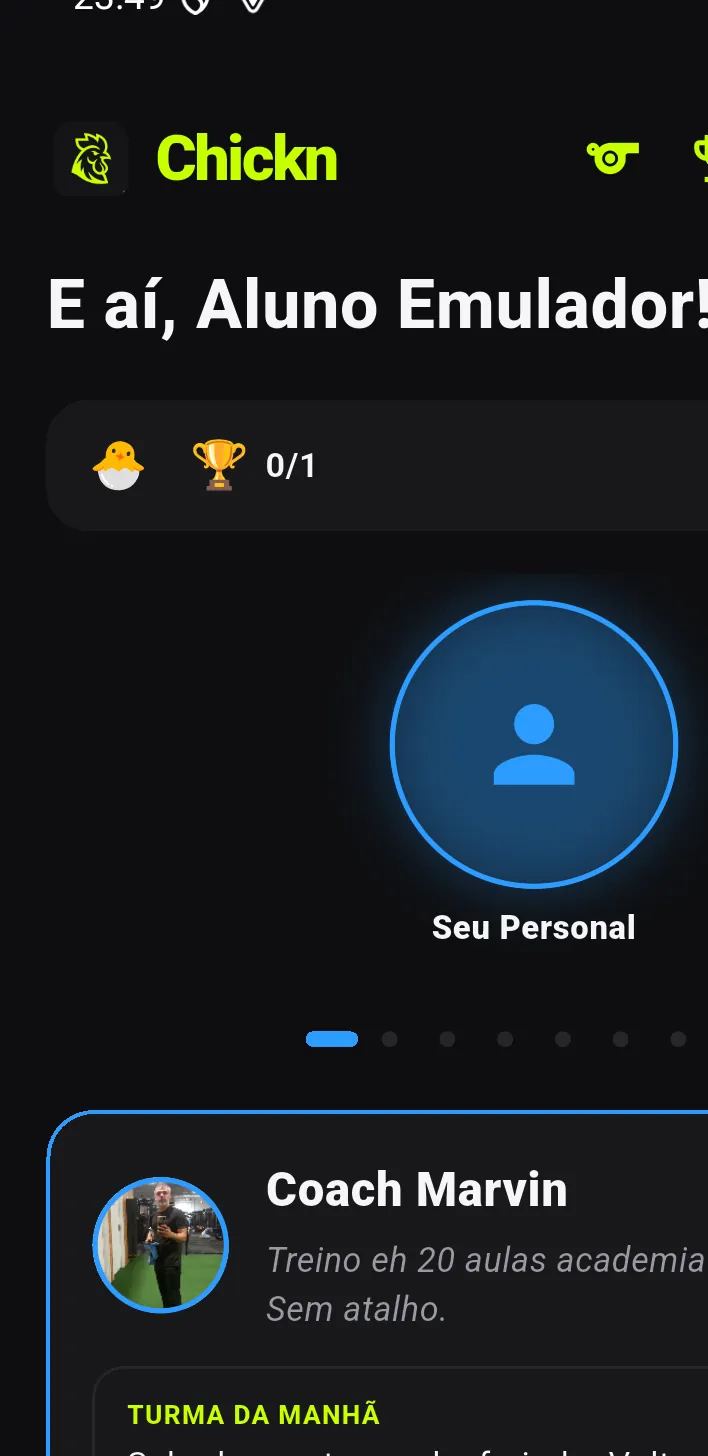
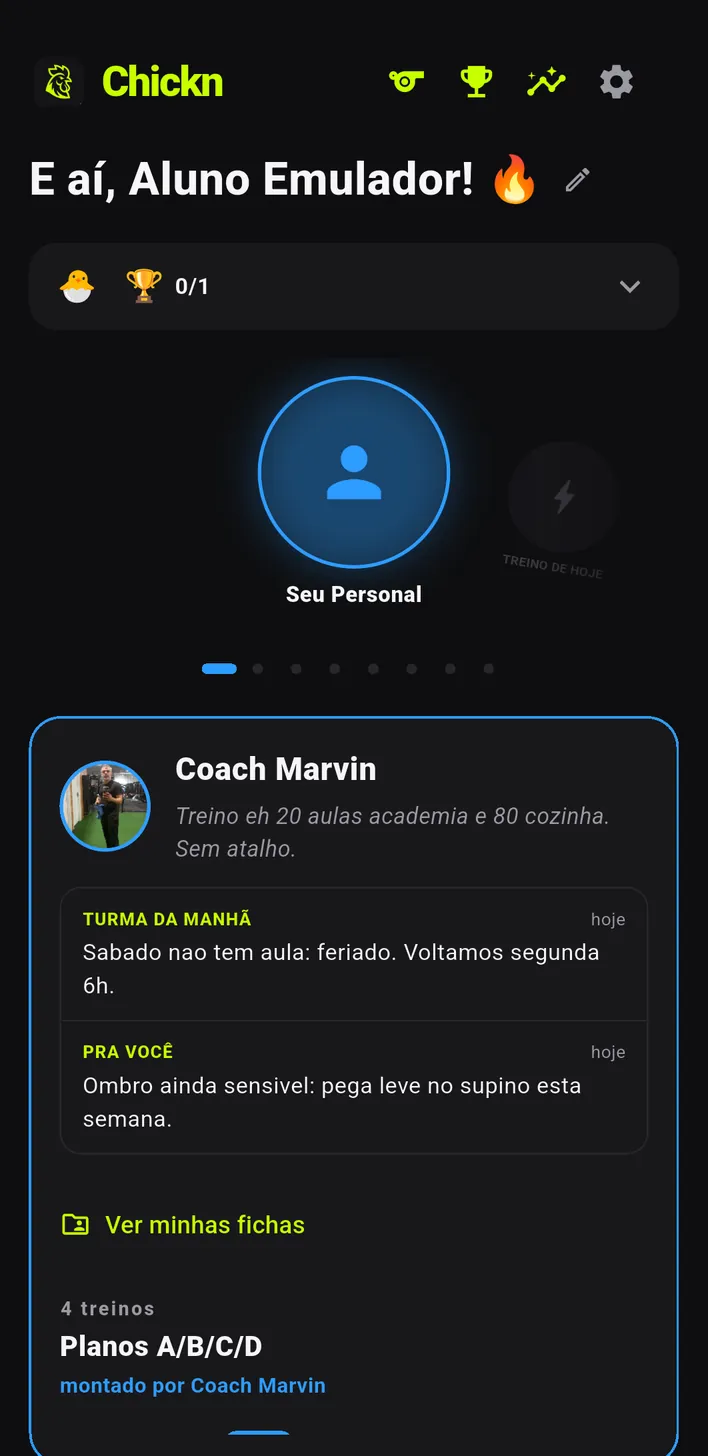
site: o passo "Acompanhar" mostrava o cartão do aluno cortado
O print terminava no meio do cartão do personal: a legenda prometia "o treino
de hoje já pronto pra começar" e a imagem parava em "montado por Coach Marvin".
O cartão não cabe numa tela de celular, então virou duas — topo (marca, frase e
os dois recados) e continuação (Ver minhas fichas + o programa com o treino de
hoje marcado). A legenda de cada uma diz só o que a imagem mostra.

De quebra os recados aparecem como "hoje" em vez de "há 1 dias", que era o bug
de plural corrigido em 2205e7db e ainda não está no build do emulador.

Claude-Session: https://claude.ai/code/session_013khmAm6EgE6sMLbDccjQKg

diff --git a/personal.html b/personal.html
@@ -462,8 +462,11 @@ var STEPS = [
        a:"Tela de pagamentos com mensalidades pagas, em aberto e previsão do próximo ciclo",
        c:'<span class="k">Financeiro</span>: mensalidade por aluno, o que já entrou no mês e a previsão do próximo ciclo.'},
       {i:"g-aluno.webp",
-       a:"Tela inicial do aluno com a marca do personal, os recados e o treino de hoje",
-       c:'E é isto que o seu aluno vê: a sua marca, os seus recados com a data de cada um, as fichas dele e o treino de hoje já pronto pra começar.'}
+       a:"Tela inicial do aluno com a marca do personal e os dois recados",
+       c:'E é isto que o seu aluno vê na tela inicial dele: a sua marca, a sua frase, e os recados empilhados — o da turma e o dele — com a data de cada um.'},
+      {i:"g-aluno2.webp",
+       a:"Continuação do cartão do personal, com as fichas do aluno e os treinos do programa",
+       c:'Rolando o mesmo cartão: <span class="k">Ver minhas fichas</span> e o seu programa já montado, com o treino de hoje marcado. Ele não escolhe nada — ao aceitar o vínculo, o seu programa entra sozinho.'}
     ]
   }
 ];
